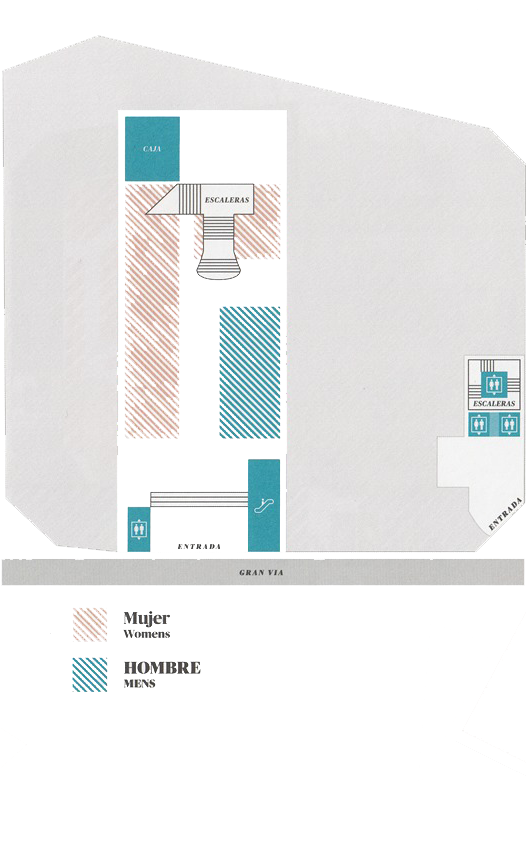
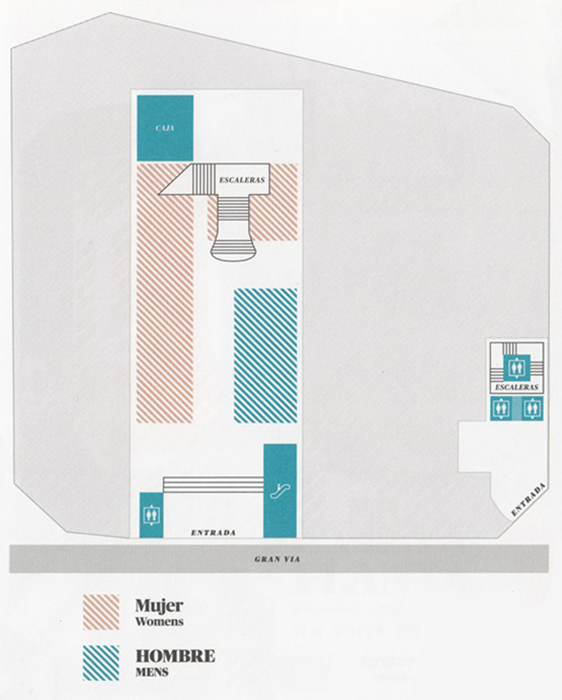
Modificacion mapa

diff --git a/src/pages/tienda/tienda.ts b/src/pages/tienda/tienda.ts
@@ -9,7 +9,15 @@ import { WorkerService } from '../../services/worker.services';
   templateUrl: 'tienda.html',
 })
 export class TiendaPage {
-  picToView:string="../../assets/imgs/planta2.png";
+  picToView:string="../../assets/imgs/planta0.png";
+  buttonColor: string = '#808080';
+  buttonColorNoSeleccionado: string = '#DCDCDC';
+  plantaSeleccionada:string = "planta0";
+  planta0: string;
+  planta1: string;
+  planta2: string;
+  planta3: string;
+  planta4: string;
   constructor(
     public navCtrl: NavController,
     public navParams: NavParams,
@@ -25,11 +33,35 @@ export class TiendaPage {
       });
       alert2.present();
     }
+    this.actulizarSeleccionPlanta("0");
+  }
+
+  actulizarSeleccionPlanta(nuevaPlanta) {
+    console.log("Cambiando imagen");
+    this.planta0 = this.buttonColorNoSeleccionado;
+    this.planta1 = this.buttonColorNoSeleccionado;
+    this.planta2 = this.buttonColorNoSeleccionado;
+    this.planta3 = this.buttonColorNoSeleccionado;
+    this.planta4 = this.buttonColorNoSeleccionado;
+    this.plantaSeleccionada = nuevaPlanta;
+    for(let i=0; i < 4; i++){ 
+      if(nuevaPlanta == "0")
+        this.planta0 = this.buttonColor;
+      if(nuevaPlanta == "1")
+        this.planta1 = this.buttonColor;
+      if(nuevaPlanta == "2")
+        this.planta2 = this.buttonColor;
+      if(nuevaPlanta == "3")
+        this.planta3 = this.buttonColor;
+      if(nuevaPlanta == "4")
+        this.planta4 = this.buttonColor;
+    }
   }
 
   changeView(numeroImagen){
     console.log(numeroImagen);
+    this.actulizarSeleccionPlanta(numeroImagen);
     this.picToView="../../assets/imgs/planta"+numeroImagen+".png";
-}
+  }
 
 }

diff --git a/src/pages/tienda/tienda.html b/src/pages/tienda/tienda.html
@@ -13,27 +13,27 @@
 
   <ion-grid id="selectorPlanta">
     <ion-row>
-      <ion-col text-center (click)="changeView(4)">
+      <ion-col text-center (click)="changeView(4)" [ngStyle]="{'background-color': planta4}">
         <span class="numeroPlanta">4</span>
       </ion-col>
     </ion-row>
     <ion-row>
-      <ion-col text-center (click)="changeView(3)">
+      <ion-col text-center (click)="changeView(3)" [ngStyle]="{'background-color': planta3}">
         3
       </ion-col>
     </ion-row>
     <ion-row>
-      <ion-col text-center (click)="changeView(2)">
+      <ion-col text-center (click)="changeView(2)" [ngStyle]="{'background-color': planta2}">
         2
       </ion-col>
     </ion-row>
     <ion-row>
-      <ion-col text-center (click)="changeView(1)">
+      <ion-col text-center (click)="changeView(1)" [ngStyle]="{'background-color': planta1}">
         1
       </ion-col>
     </ion-row>
     <ion-row>
-      <ion-col text-center (click)="changeView(0)">
+      <ion-col text-center (click)="changeView(0)" [ngStyle]="{'background-color': planta0}">
         0
       </ion-col>
     </ion-row>

diff --git a/src/pages/tienda/tienda.scss b/src/pages/tienda/tienda.scss
@@ -21,4 +21,6 @@ page-tienda {
     img {
         margin: -20px 80px;
     }
+
+    
 }
